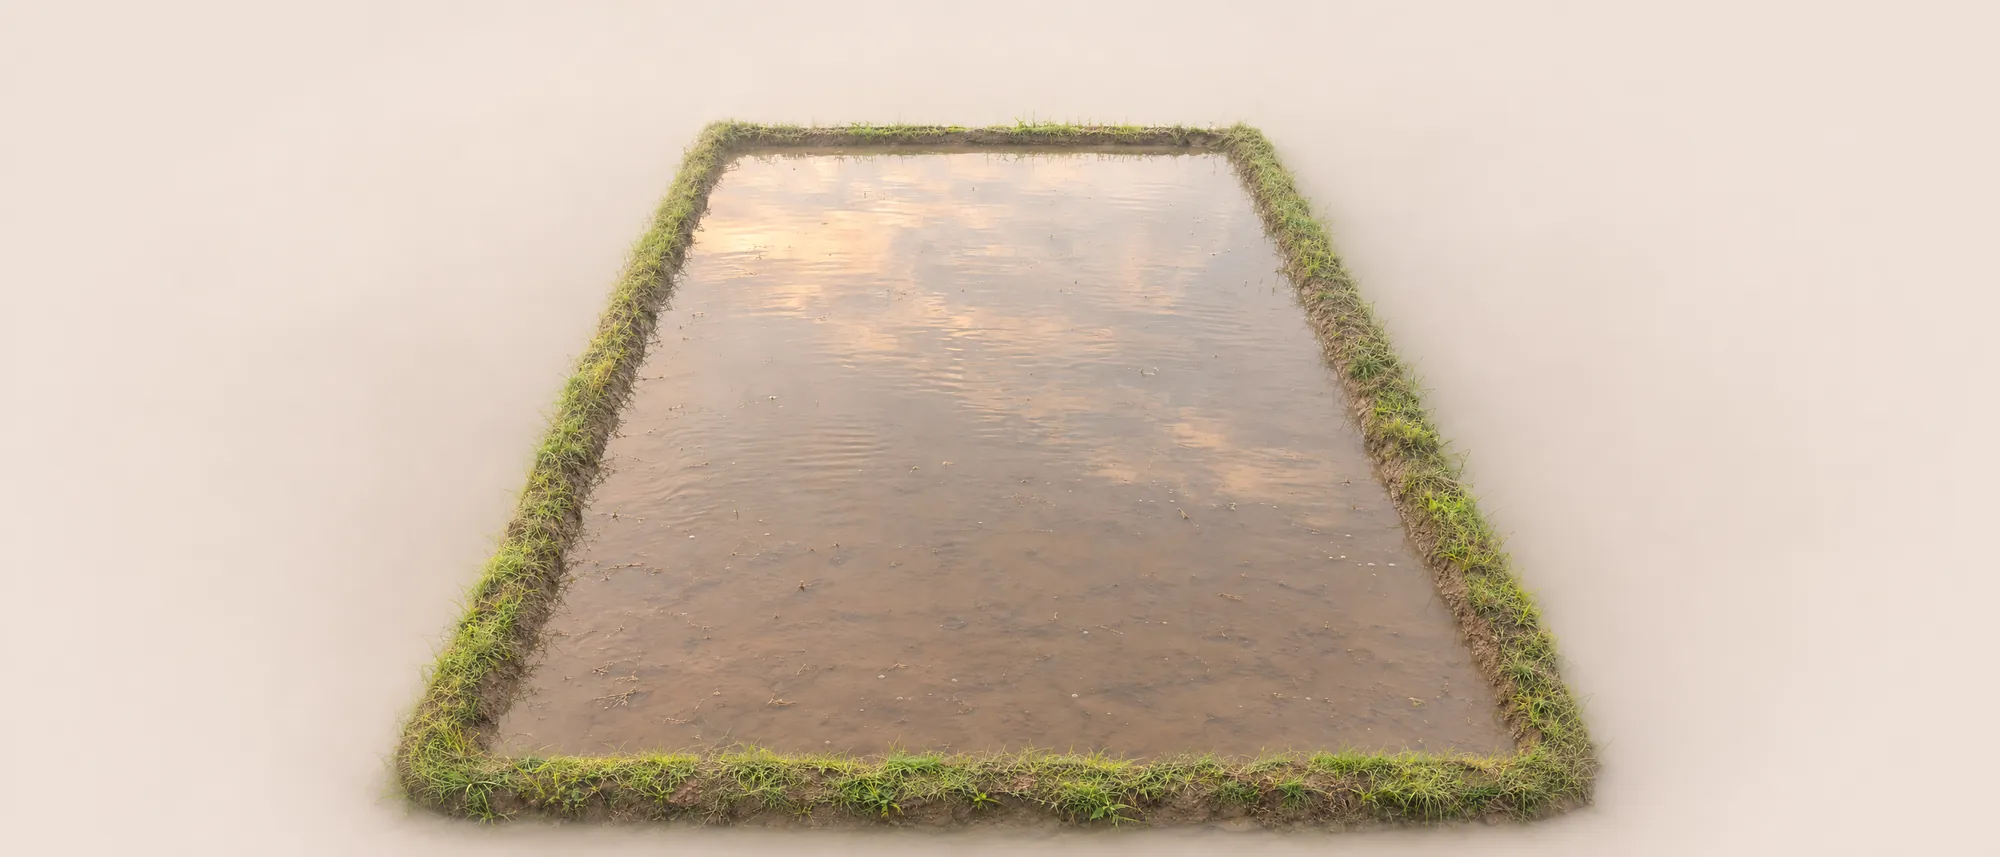
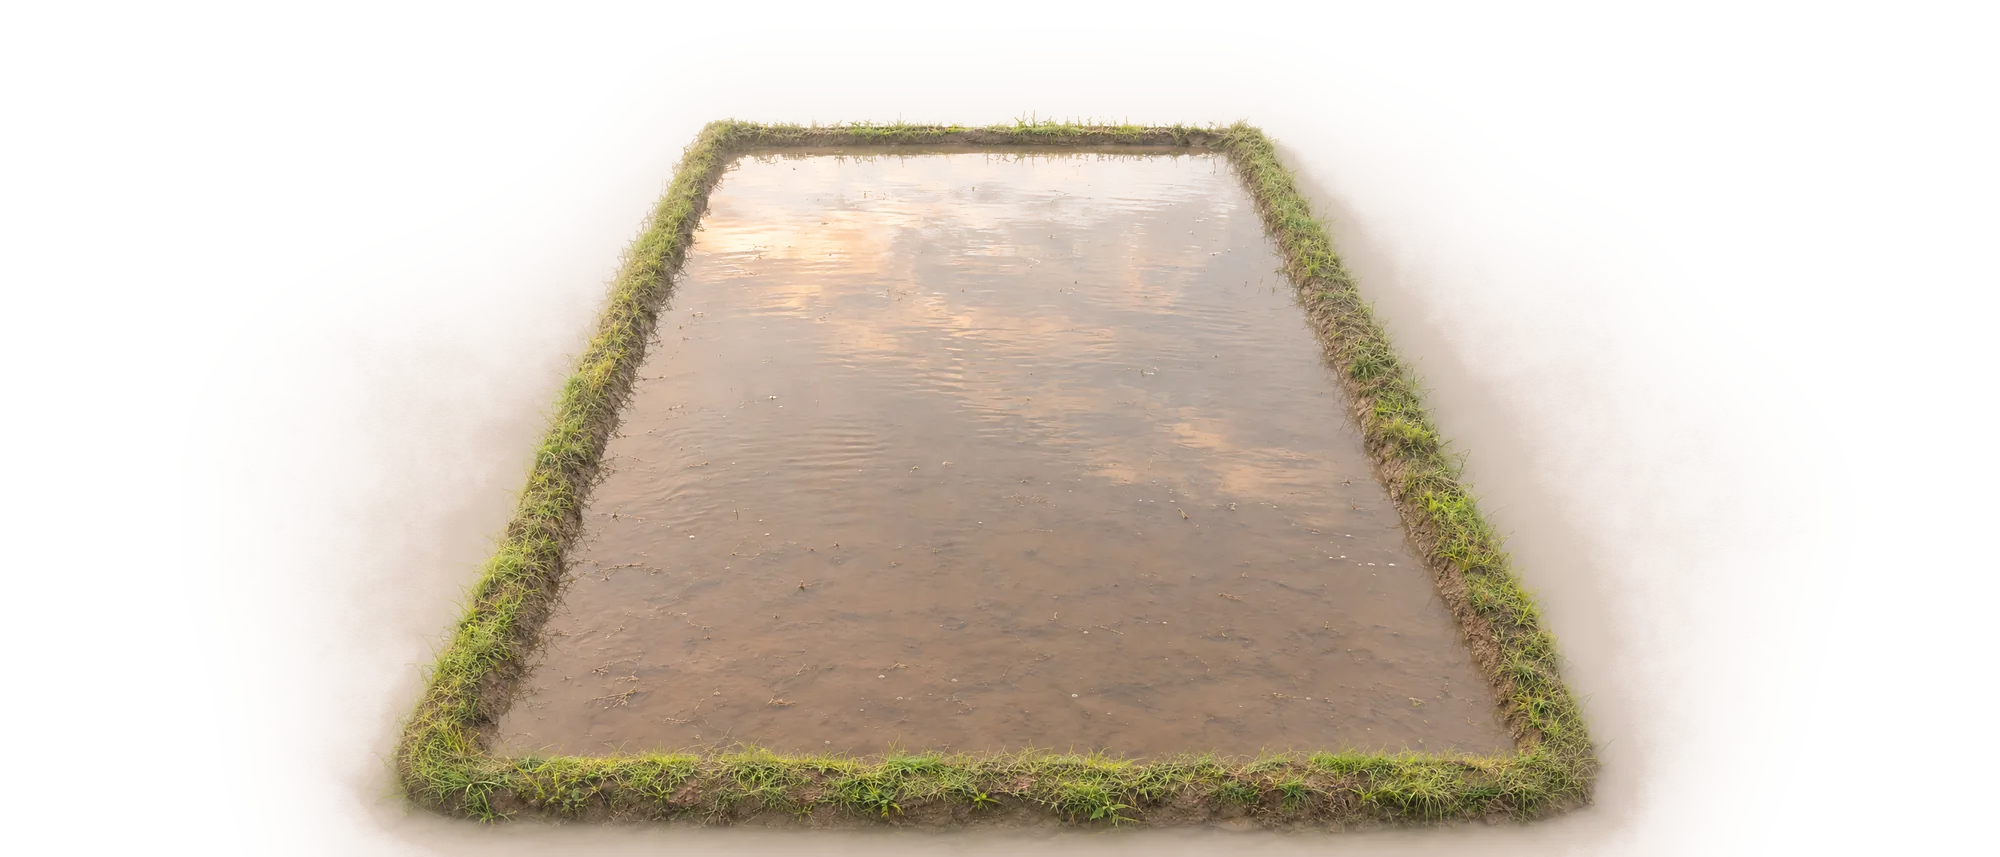
404: the paddy's mist is see-through now, so the farmland shows all around it, with a soft glow kept round the plot

diff --git a/magasaka-waitlist-fullquality/404.html b/magasaka-waitlist-fullquality/404.html
@@ -8,7 +8,7 @@
 <link rel="icon" href="/favicon.svg" type="image/svg+xml">
 <link rel="icon" href="/favicon-32.png" type="image/png" sizes="32x32">
 <link rel="apple-touch-icon" href="/apple-touch-icon.png">
-<link rel="preload" href="/images/404/paddy.webp?v=2" as="image">
+<link rel="preload" href="/images/404/paddy.webp?v=3" as="image">
 <meta name="theme-color" content="#eee1d8">
 <style>
 :root{--ink:#141414;--bg:#eee1d8;--font:"Inter Display","Inter",-apple-system,"Segoe UI",Helvetica,Arial,sans-serif}
@@ -96,7 +96,7 @@ header,.head,.stage,footer{z-index:2}
     // the water's corners in the photo, as fractions of its width and height: far-left, far-right, near-right, near-left
     const Q = [[.366, .177], [.615, .177], [.753, .865], [.246, .865]];
     const photo = new Image(), sheet = new Image();
-    photo.src = '/images/404/paddy.webp?v=2'; sheet.src = '/images/404/seedlings.webp';
+    photo.src = '/images/404/paddy.webp?v=3'; sheet.src = '/images/404/seedlings.webp';
     let W = 0, H = 0, dpr = 1, raf = 0, visible = true, ready = 0, planted = 0;
     const seeds = [], ripples = [], mouse = {x: -9999, y: -9999};
 
